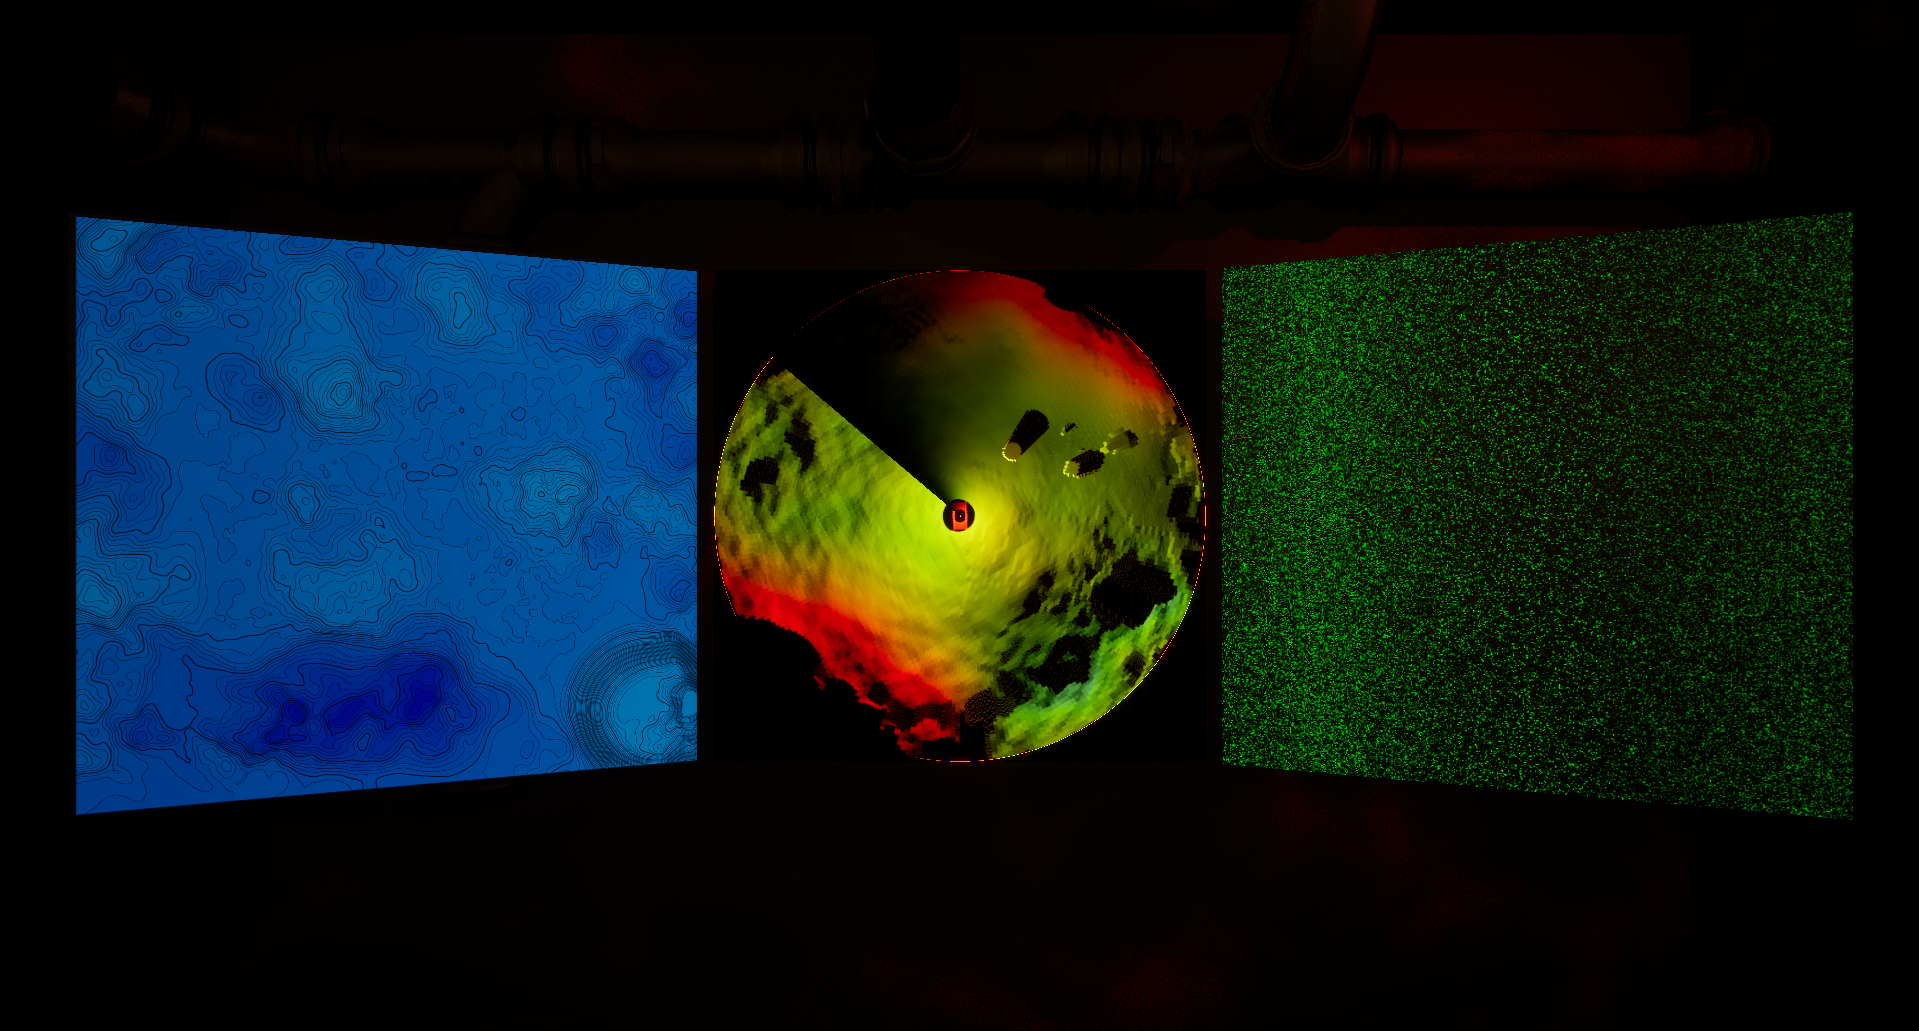
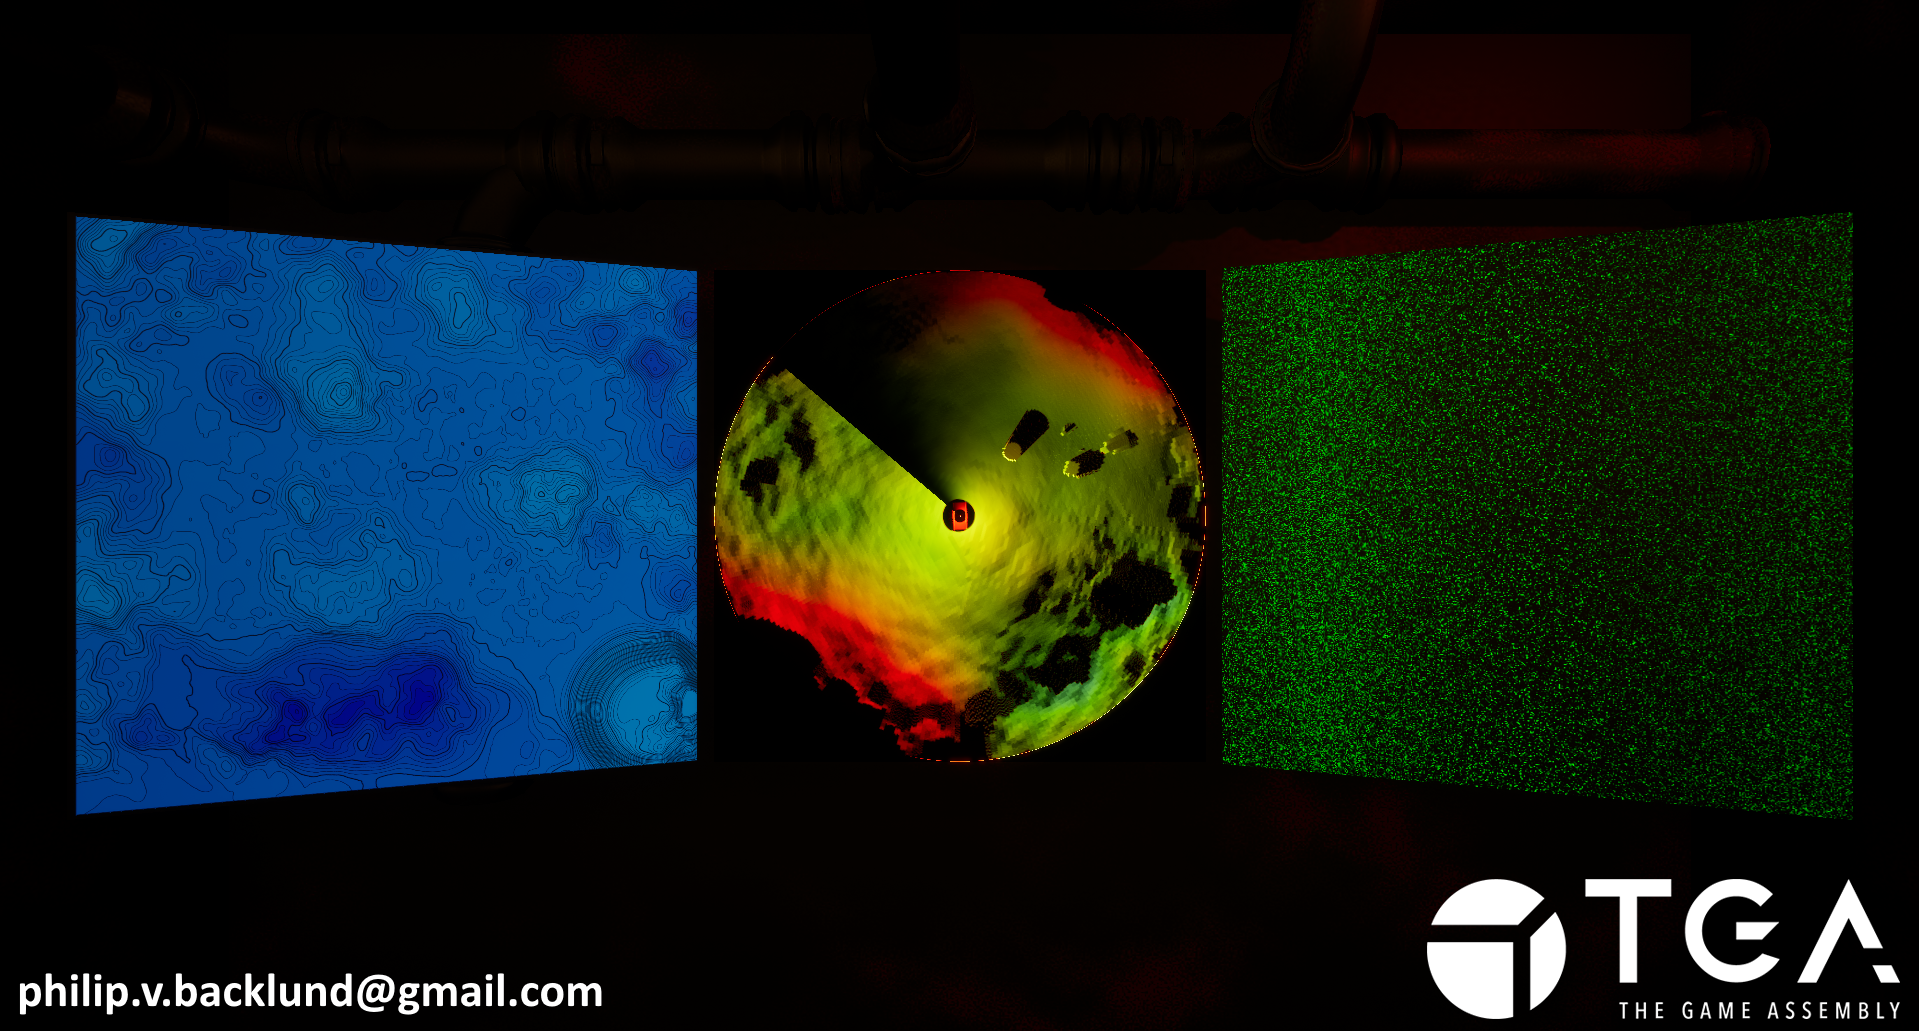
Info Updated

Changed region(s): [[0.7379, 0.838, 1.0, 0.9932], [0.0, 0.9311, 0.3075, 0.9932]]

diff --git a/_layouts/post.html b/_layouts/post.html
@@ -22,7 +22,7 @@
 		<header class="major">
 			<h1>{{ page.title }}</h1>
 		</header>
-		{% if page.image %}<span class="image main"><img src="{{ site.baseurl }}/{{ page.image }}" alt="" /></span>{% endif %}
+		<!--{% if page.image %}<span class="image main"><img src="{{ site.baseurl }}/{{ page.image }}" alt="" /></span>{% endif %}-->
 		{{ content }}
 	</div>
 </section>

diff --git a/_includes/footer.html b/_includes/footer.html
@@ -80,7 +80,6 @@
 			
 		</div>
 	</footer>
-
 </div>
 
 <!-- Scripts -->

diff --git a/2_Submarine.md b/2_Submarine.md
@@ -6,9 +6,9 @@ image: assets/images/Sonar/ActiveSonar.png
 owner: assets/images/TGA.png
 nav-menu: true
 ---
-<p> I used Pipe models made by <a href="https://www.artstation.com/kim_betsgren">Kim Betsgren </a>.</p>
 
 <img src="{% link assets/images/Sonar/AllThree.png %}" alt="Image 1" />
+<p> I used Pipe models made by <a href="https://www.artstation.com/kim_betsgren">Kim Betsgren </a>.</p>
 
 <h4>Intro</h4>
 This is a submarine game prototype I made with imaging sonar, passive sonar and a topographic map.
@@ -22,7 +22,6 @@ This is a remake of a project I did during my time at playground squad. I wanted
 The main focus is the Imaging Sonar while the Passive Sonar and Map are supporting pieces.
 
 The project was originally inspired by the torpedo scene in hunt for red october and a smarter every day’s video about passive sonar.
-
 
 
 <h2>Imaging Sonar</h2>
